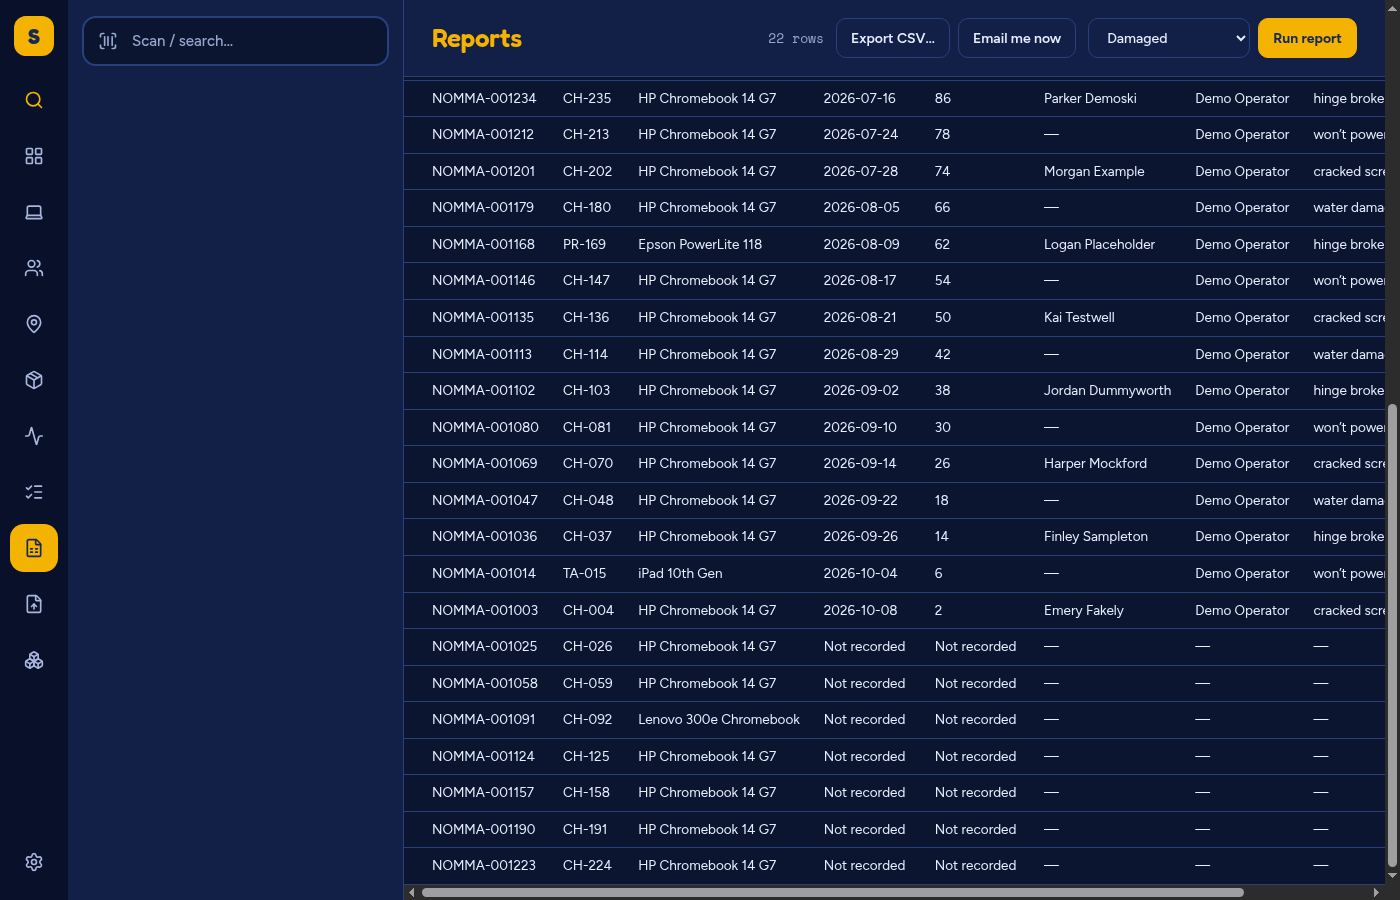
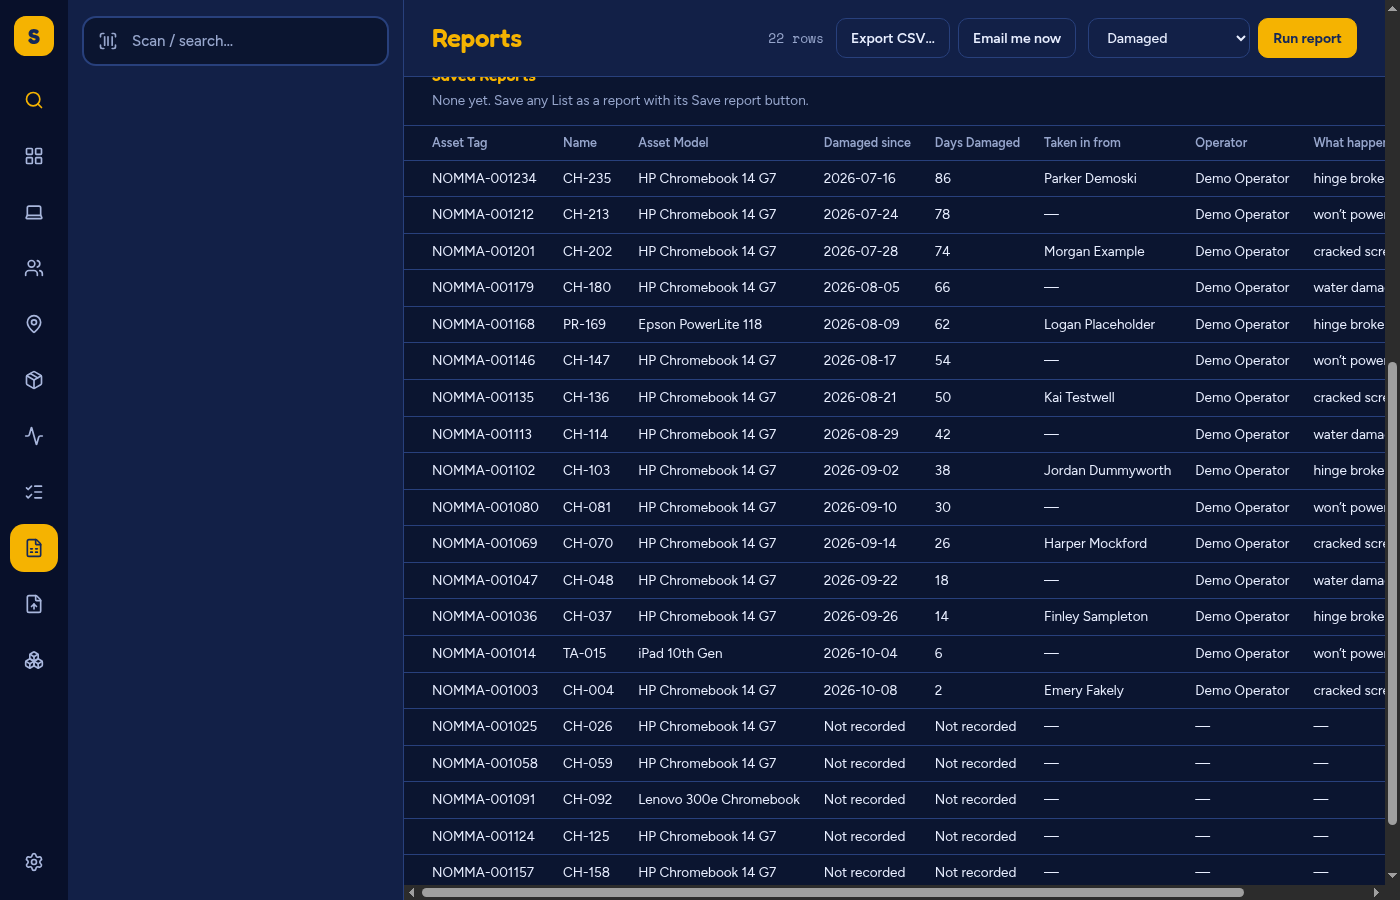
Damaged Report: name the open Maintenances, cite the specs, note the undo ceiling; screenshot with headers

diff --git a/src/main/snipeit.ts b/src/main/snipeit.ts
@@ -716,21 +716,22 @@ export function createSnipeIt(config: Config, fetch: typeof globalThis.fetch, to
     return rows
   }
 
-  // The Damaged Report (#69 §3): Assets whose Status Label is Damaged (by name, as Repair intake finds it), when they became
+  // The Damaged Report (#69 §3): Assets whose Status Label is Damaged (by name, as #59 decided), when they became
   // Damaged, and what their newest live Repair intake recorded. Damaged since is the open Repair Maintenance's start, else
   // that Repair intake's date, else not recorded (set Damaged by hand). Each Asset's Activity is searched PAGE_BATCH at a time.
   async function damaged(now: Date): Promise<Report> {
     const label = (await allRows<StatusLabel>('/statuslabels')).find((l) => l.name.trim().toLowerCase() === 'damaged')
     if (!label) throw new Error('Snipe-IT has no Status Label named Damaged.')
-    const [assets, open] = await Promise.all([allRows<RawAsset>(`/hardware?status_id=${label.id}`), allRows<RawMaintenance>('/maintenances?completed=false')])
-    // Repair intake opens one Repair Maintenance; should an Asset have more, the newest start is the one Incoming repair closes.
+    const [assets, openMaintenances] = await Promise.all([allRows<RawAsset>(`/hardware?status_id=${label.id}`), allRows<RawMaintenance>('/maintenances?completed=false')])
+    // Repair intake opens one Repair Maintenance (#59); should an Asset have more, the newest start is the one Incoming repair closes (#60).
     const started = new Map<number, string>()
-    for (const m of open) {
+    for (const m of openMaintenances) {
       const start = dayOf(m.start_date)
       if (m.asset && start && (m.maintenance_type || m.asset_maintenance_type || '').trim().toLowerCase() === 'repair' && start > (started.get(m.asset.id) ?? ''))
         started.set(m.asset.id, start)
     }
-    // The Workflow name without brackets also finds its undos; ponytail: the newest 20 hits, far more than one Asset's repairs.
+    // The Workflow name without brackets also finds its undos. ponytail: the newest 20 hits, far more than one Asset's repairs;
+    // an undo whose Repair intake is older than those would leave that Repair intake live. Page further if that ever happens.
     const intakeOf = async (id: number) => {
       const body = await request<{ rows: RawActivity[] }>(`/reports/activity?item_type=asset&item_id=${id}&search=${encodeURIComponent('Repair intake')}&sort=created_at&order=desc&limit=20`)
       if (isError(body)) throw new Error(reason(body.messages))
